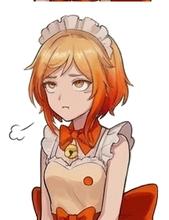
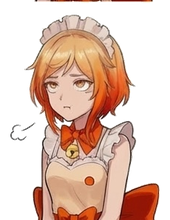
fix: scroll-to-top saat pindah halaman + maskot pad_top 40px
scroll-to-top on mount:
- DraftPage, SavedPage, NotFoundPage, ExplorePage, SubscriptionsPage
- window.scrollTo({ top: 0 }) di useEffect([]) awal

maskot crop:
- pad_top 20 → 40px, semua 10 frame kontekstual di-re-export

diff --git a/src/app/components/ExplorePage.tsx b/src/app/components/ExplorePage.tsx
@@ -1,4 +1,4 @@
-import { useState } from "react";
+import { useState, useEffect } from "react";
 import { useNavigate } from "react-router";
 import { Search, Bookmark } from "lucide-react";
 import { ARTICLES, type Article } from "../data/articles";
@@ -82,6 +82,7 @@ function CategoryGridCard({ category, onClick }: CategoryGridCardProps) {
 
 export function ExplorePage() {
   const navigate = useNavigate();
+  useEffect(() => { window.scrollTo({ top: 0 }); }, []);
   const [searchQuery, setSearchQuery] = useState("");
   const [filteredArticles, setFilteredArticles] = useState<Article[]>([]);
   const [isSearching, setIsSearching] = useState(false);

diff --git a/src/app/components/Subscriptionspage.tsx b/src/app/components/Subscriptionspage.tsx
@@ -262,6 +262,7 @@ function AddSourceModal({ onClose, onAdded }: { onClose: () => void; onAdded: ()
 
 export function SubscriptionsPage() {
   const [sources, setSources] = useState<NewsSource[]>([]);
+  useEffect(() => { window.scrollTo({ top: 0 }); }, []);
   const [showAdd, setShowAdd] = useState(false);
   const [activeTab, setActiveTab] = useState<"follow" | "following">("following");
 

diff --git a/src/app/components/DraftPage.tsx b/src/app/components/DraftPage.tsx
@@ -371,6 +371,8 @@ export function DraftPage() {
   const [selectedDraft, setSelectedDraft] = useState<Draft | null>(null);
   const [deleteConfirm, setDeleteConfirm] = useState<string | null>(null);
 
+  useEffect(() => { window.scrollTo({ top: 0 }); }, []);
+
   useEffect(() => {
     return draftStore.subscribe(() => setDrafts(draftStore.getAll()));
   }, []);

diff --git a/src/app/components/SavedPage.tsx b/src/app/components/SavedPage.tsx
@@ -17,6 +17,8 @@ export function SavedPage() {
   const [items, setItems] = useState<SavedItem[]>([]);
   const [activeFilter, setActiveFilter] = useState<FilterTab>("all");
 
+  useEffect(() => { window.scrollTo({ top: 0 }); }, []);
+
   const loadSaved = useCallback(() => {
     const saved = articleStore.getSavedArticles();
     setItems(prev => {

diff --git a/src/app/components/NotFoundPage.tsx b/src/app/components/NotFoundPage.tsx
@@ -1,8 +1,10 @@
+import { useEffect } from "react";
 import { useNavigate } from "react-router";
 import { mascotSrc } from "./MascotEmptyState";
 
 export function NotFoundPage() {
   const navigate = useNavigate();
+  useEffect(() => { window.scrollTo({ top: 0 }); }, []);
 
   return (
     <div
